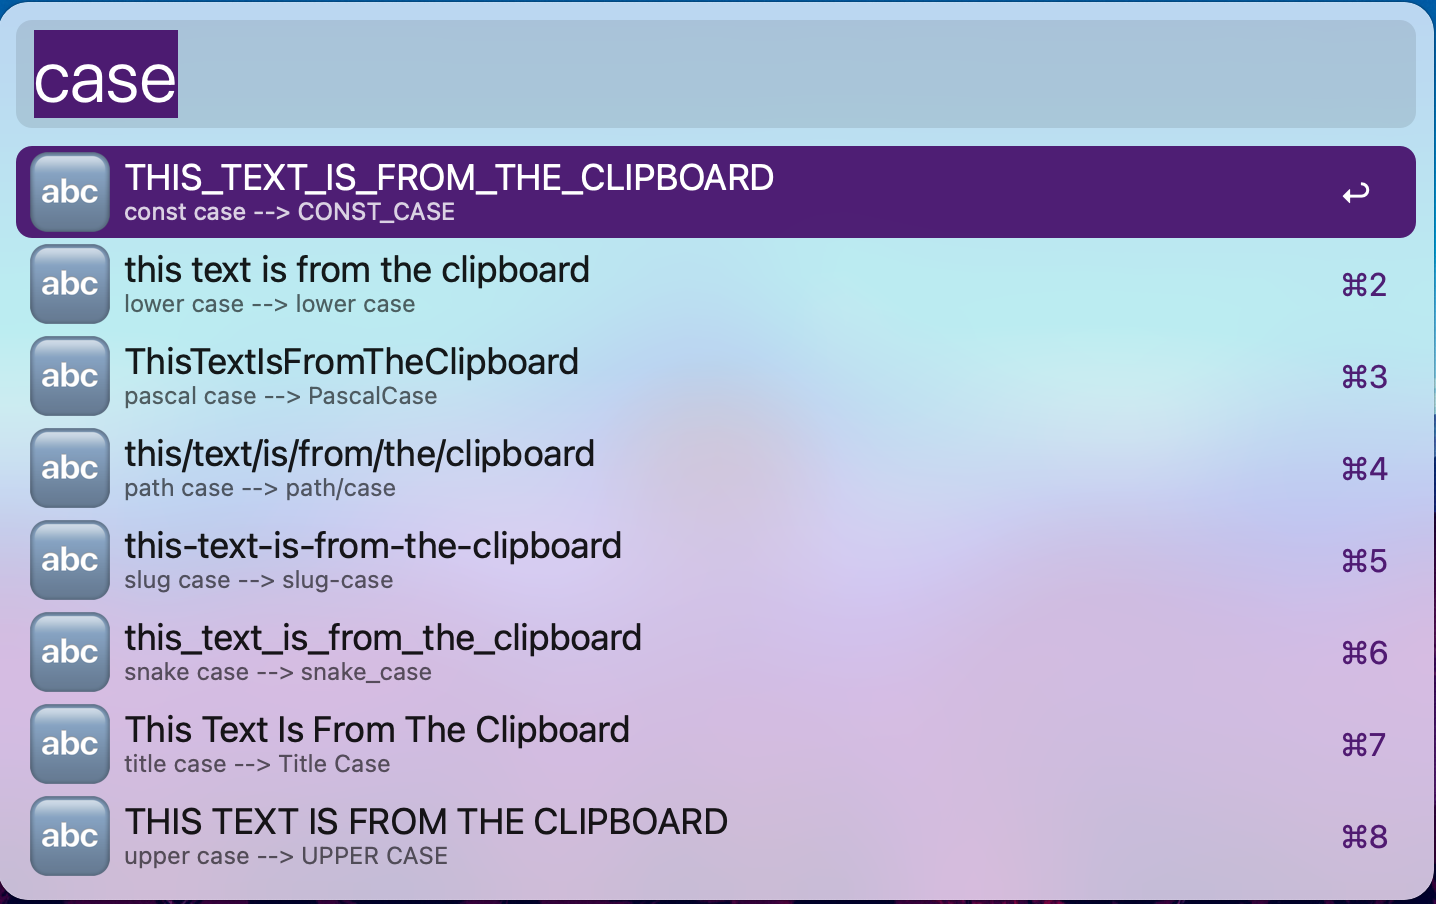
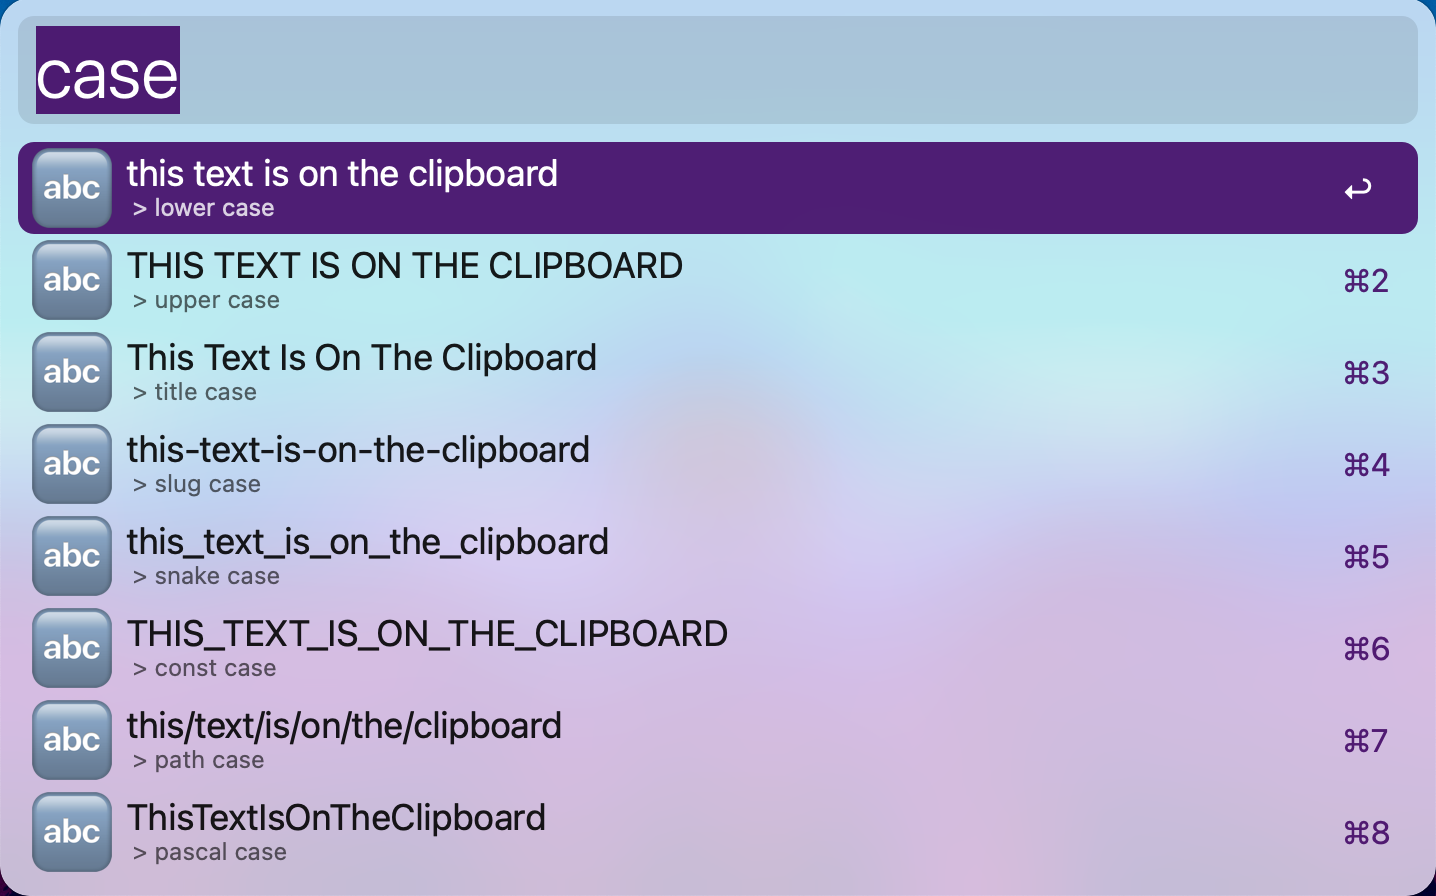
Add fixes

diff --git a/main.py b/main.py
@@ -7,28 +7,27 @@ import stringcase
 
 
 CONVERTERS = [
-    ("const case", stringcase.constcase),
     ("lower case", stringcase.lowercase),
-    ("pascal case", lambda _: stringcase.pascalcase(_.replace(" ", "_"))),
-    ("path case", stringcase.pathcase),
+    ("upper case", stringcase.uppercase),
+    ("title case", stringcase.titlecase),
     ("slug case", stringcase.spinalcase),
     ("snake case", stringcase.snakecase),
-    ("title case", stringcase.titlecase),
-    ("upper case", stringcase.uppercase),
+    ("const case", stringcase.constcase),
+    ("path case", stringcase.pathcase),
+    ("pascal case", lambda _: stringcase.pascalcase(_.replace(" ", "_"))),
 ]
 
 
 def main(workflow):
-    string = " ".join(workflow.args).strip()
+    string = " ".join(workflow.args).lower().strip()
 
     for name, converter in CONVERTERS:
         value = converter(string)
 
         workflow.add_item(
             title=value,
-            subtitle="{name} --> {converted}".format(
+            subtitle=" > {name}".format(
                 name=name,
-                converted=converter(name),
             ),
             arg=value,
             valid=True,
